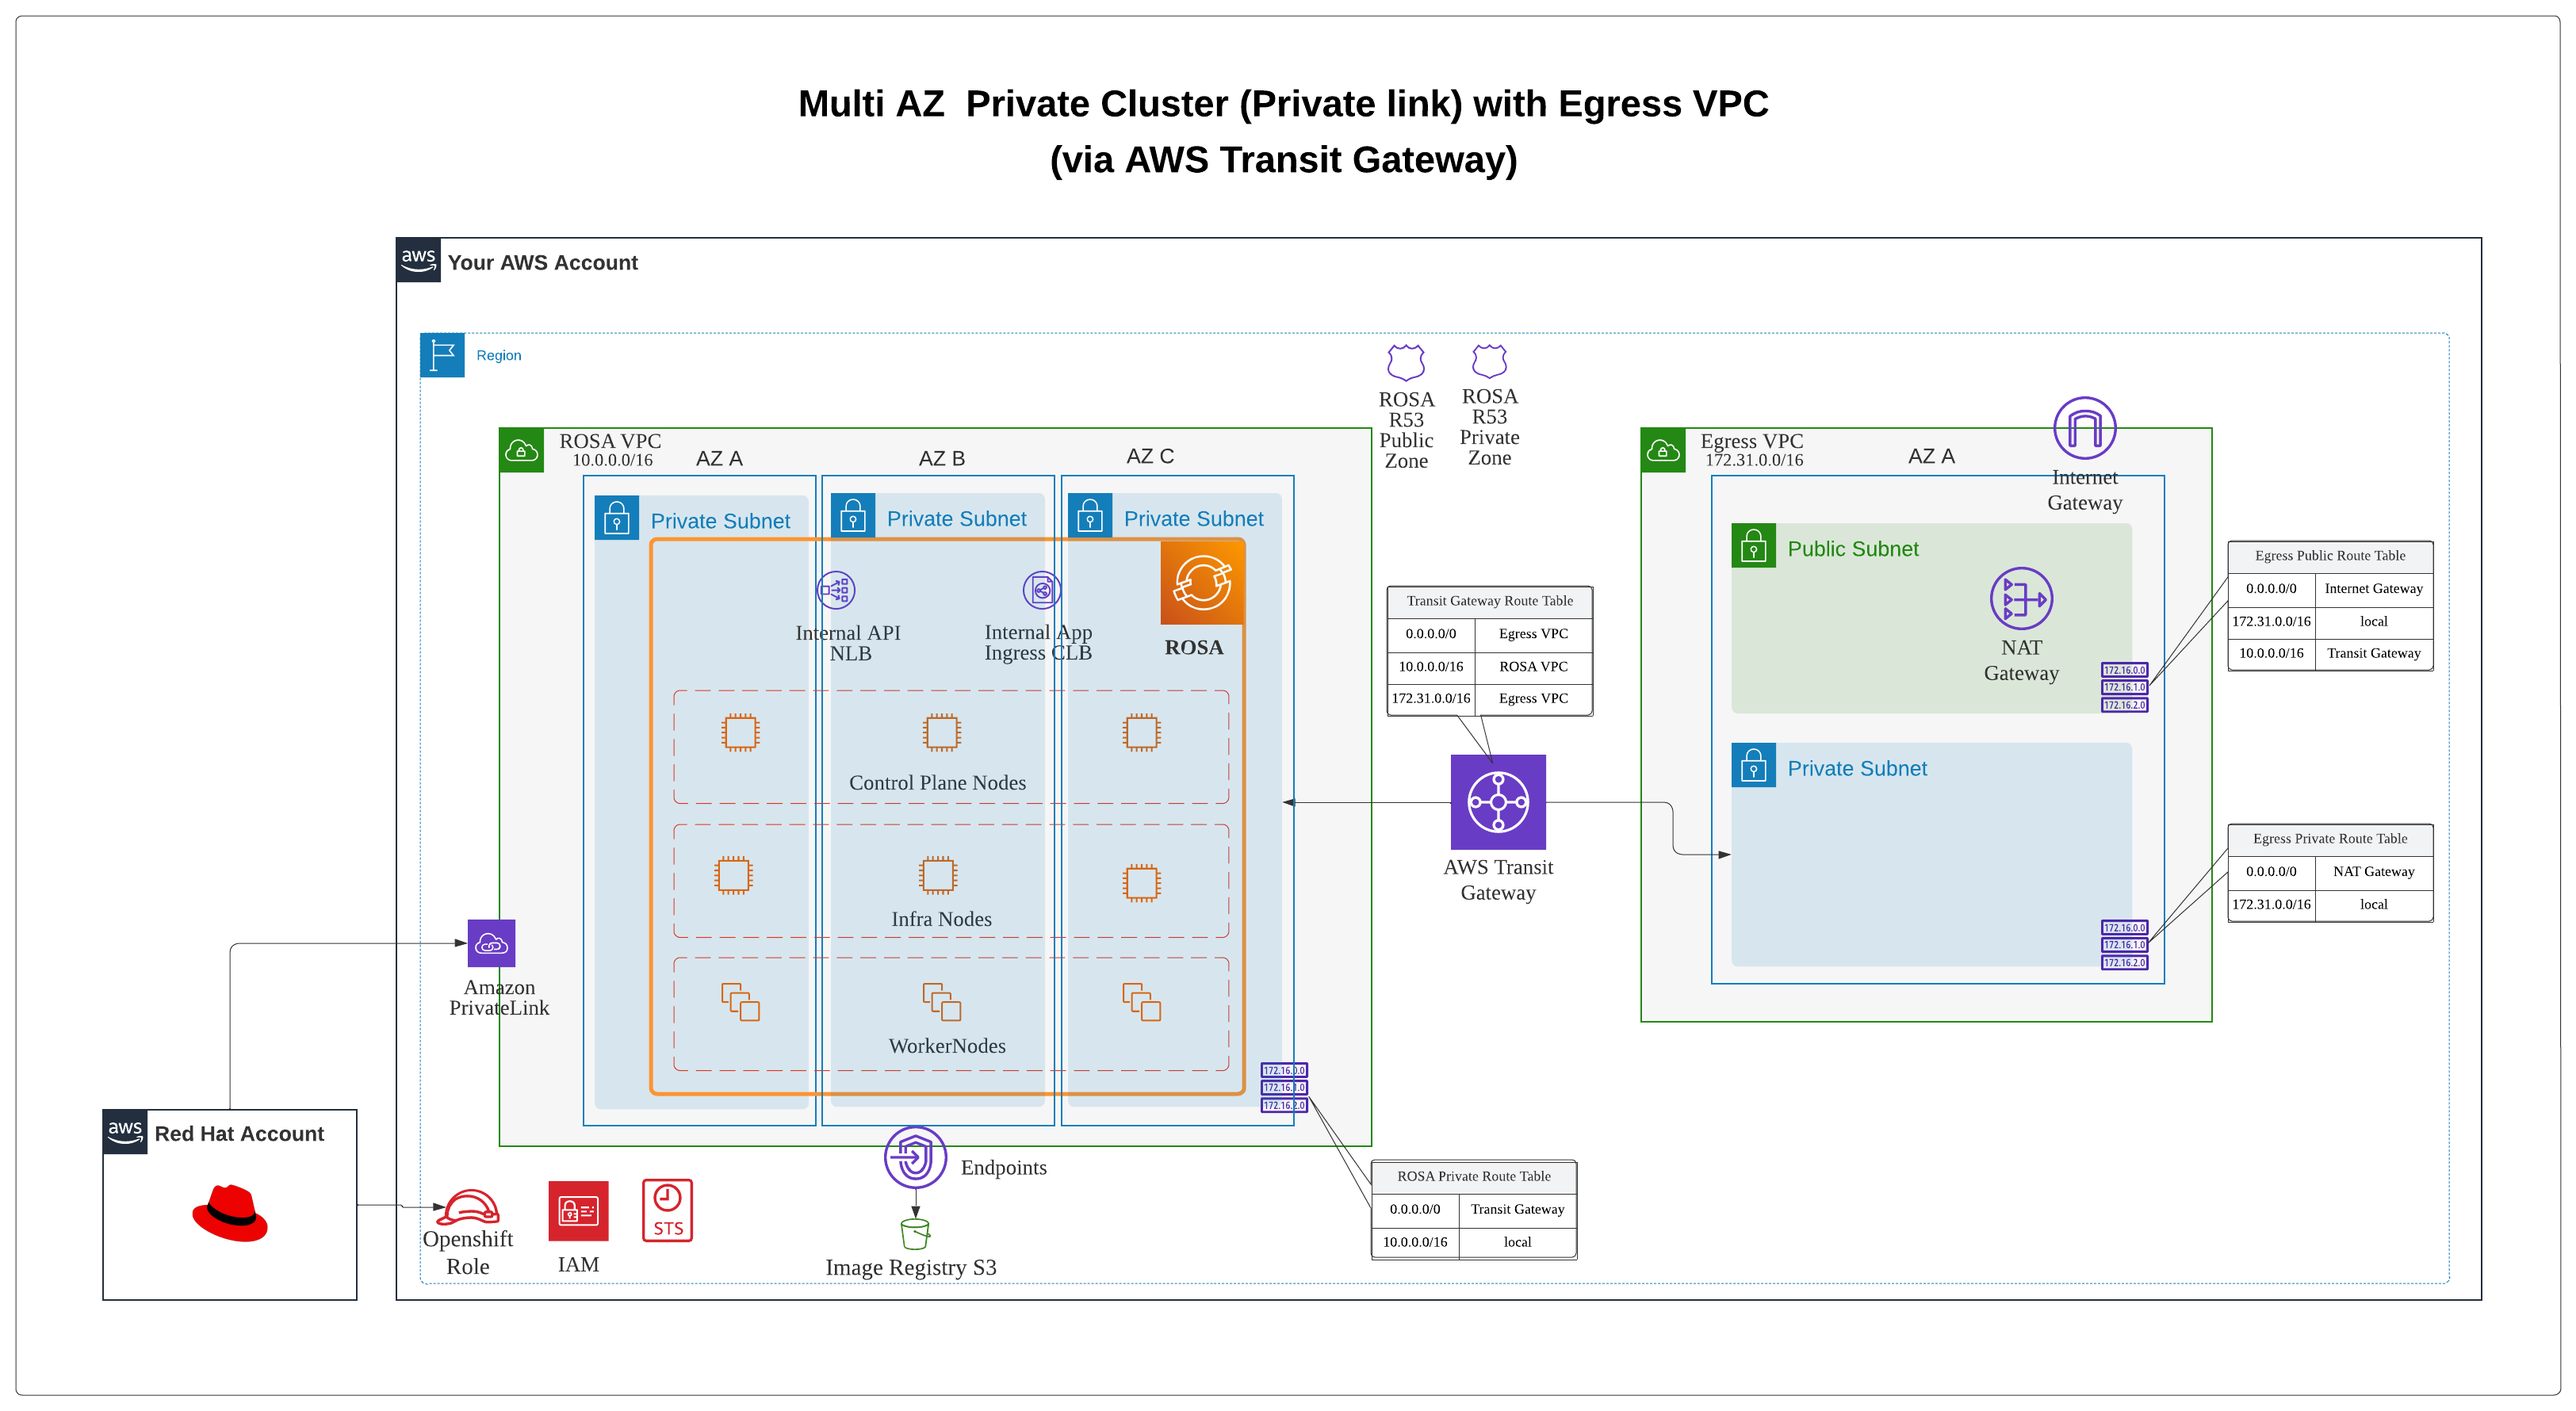
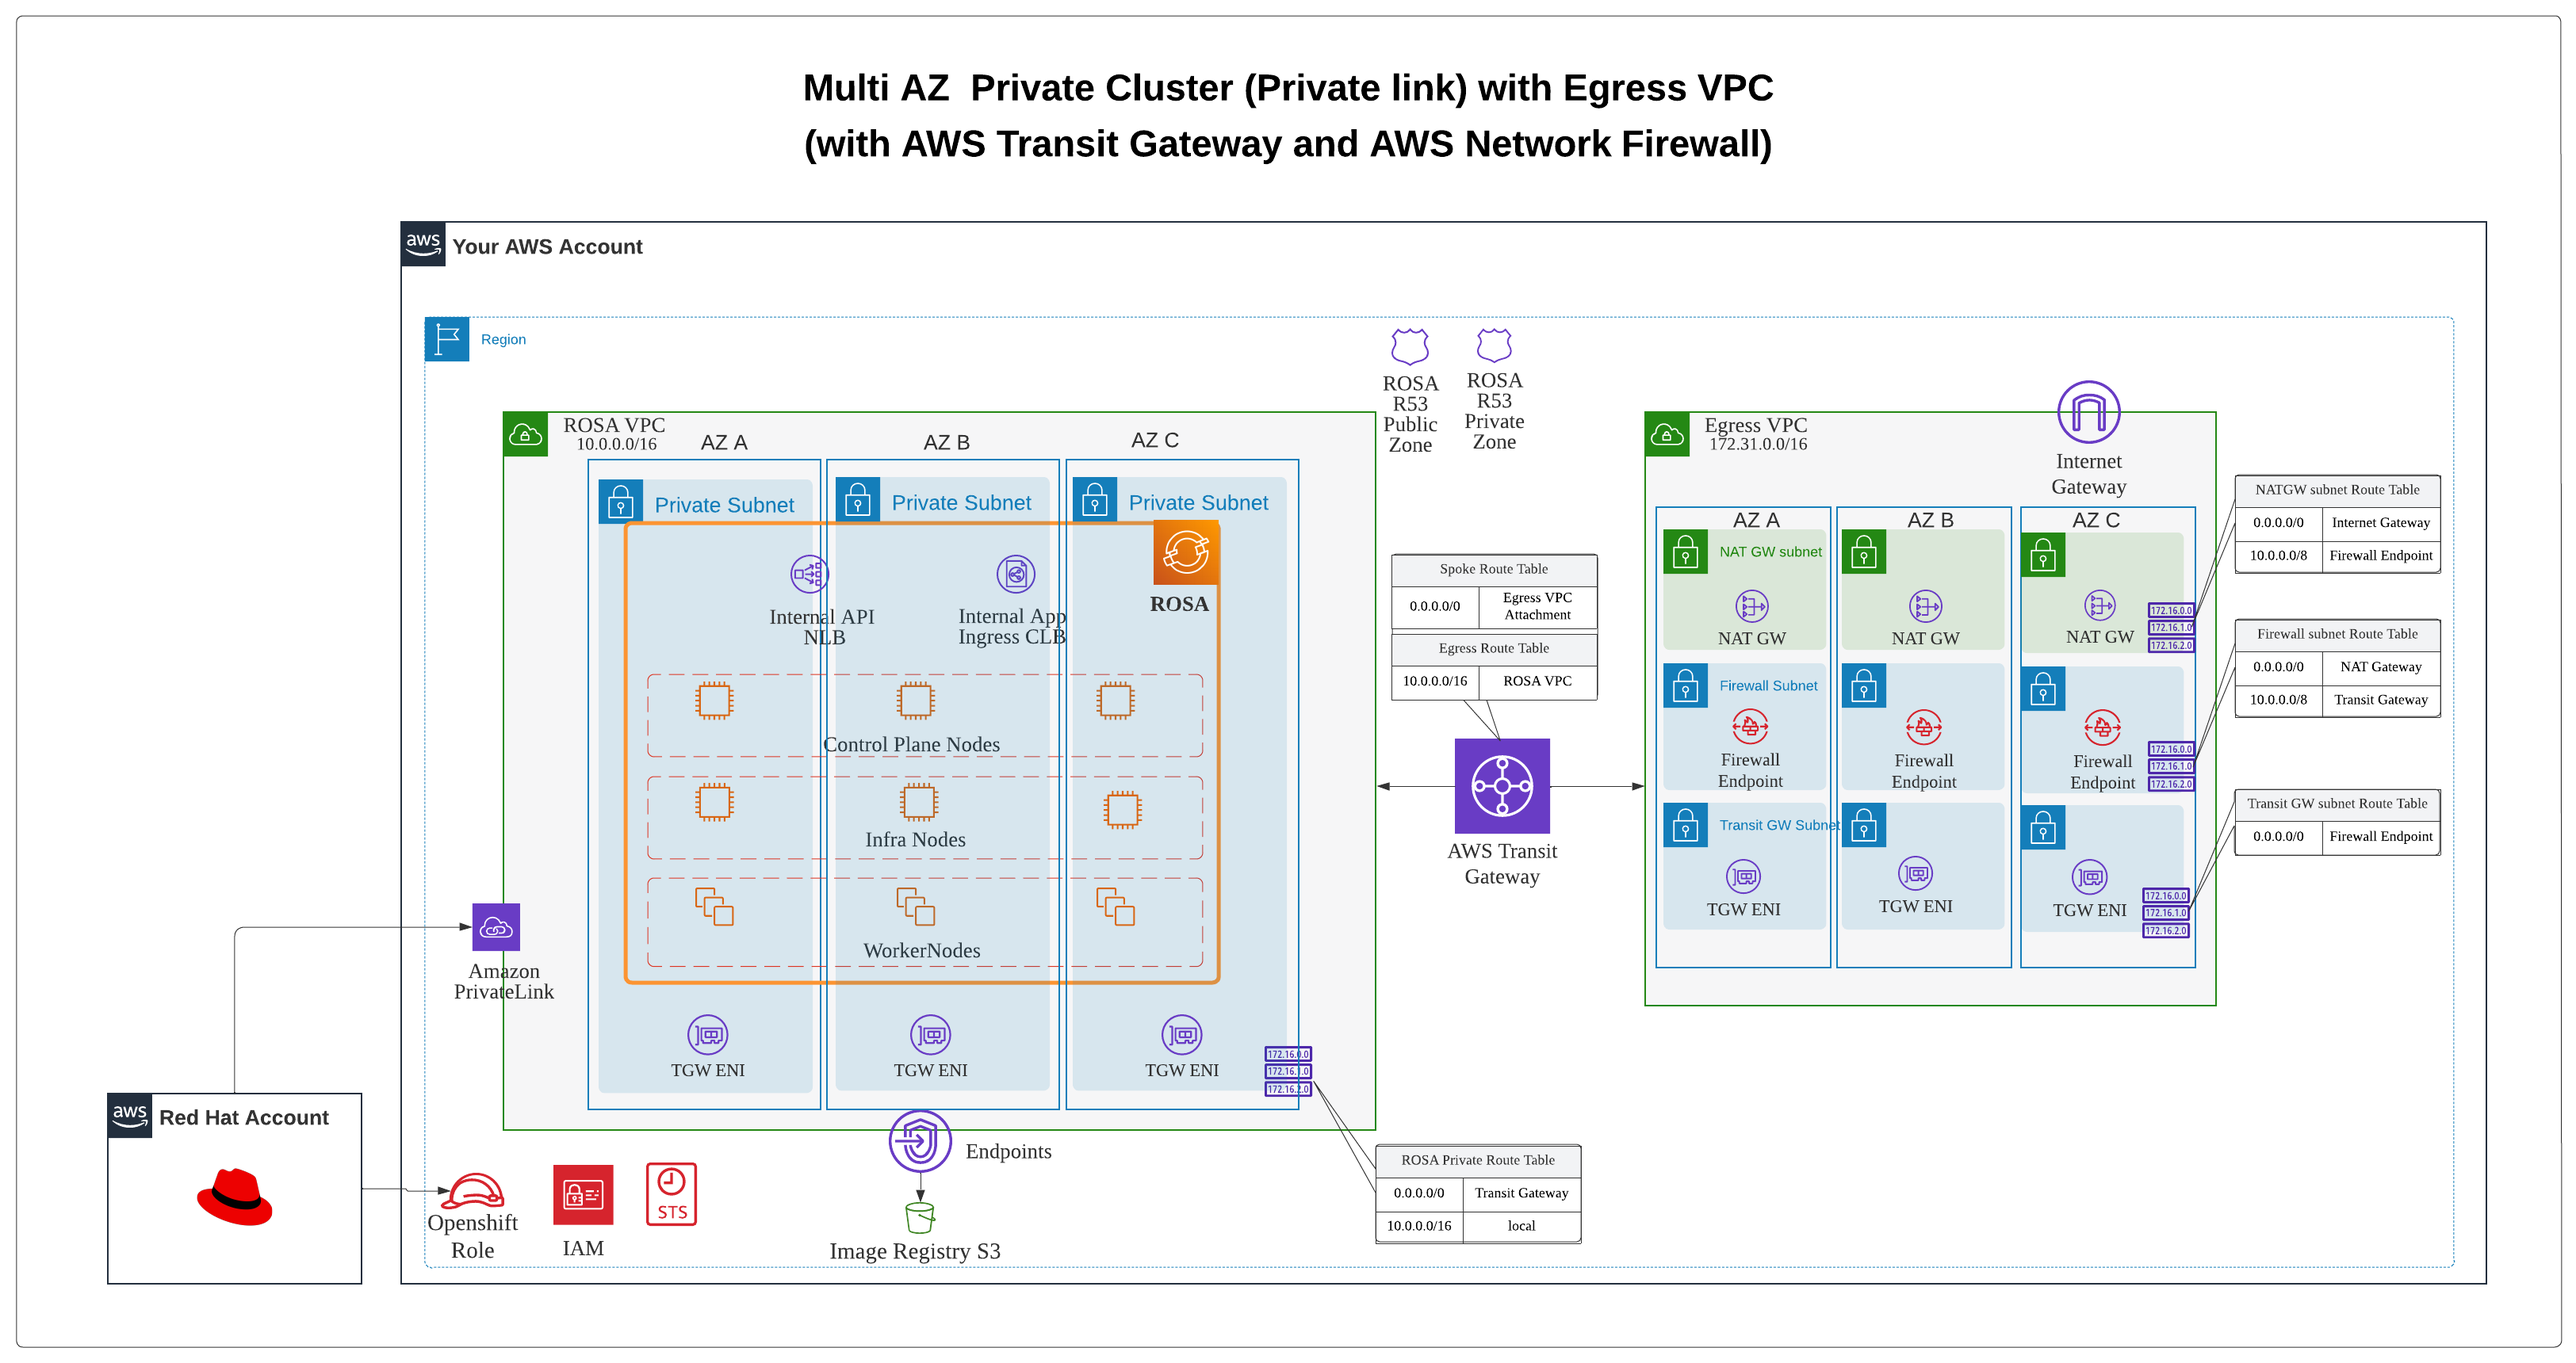
updated the user guide with the AWS Network Firewall

diff --git a/README.md b/README.md
@@ -271,16 +271,16 @@ cd ..
 
 ---
 
-3. [Option 3] Single AZ/Multi AZ Private Cluster (Private link) with Egress VPC (via AWS Transit Gateway)
+3. [Option 3] Single AZ/Multi AZ Private Cluster (Private link) with Egress VPC (with AWS Transit Gateway and AWS Network Firewall)
 
 <details style="margin-left: 20px">
 <summary>Details</summary>
 
-**To deploy** `Single AZ Private Cluster (Private link) with Egress VPC (via AWS Transit Gateway)`
+**To deploy** `Single AZ Private Cluster (Private link) with Egress VPC (with AWS Transit Gateway and AWS Network Firewall)`
 <details style="margin-left: 30px">
 <summary>Details</summary>
 
-![Single AZ Private Cluster (Private link) with Egress VPC (via AWS Transit Gateway)](documents/images/rosa-network-pattern-v1-single-az-private-tg.png)
+![Single AZ Private Cluster (Private link) with Egress VPC (with AWS Transit Gateway and AWS Network Firewall)](documents/images/rosa-network-pattern-v1-single-az-private-tg.png)
 
 Deploy the Egress VPC 
 
@@ -320,12 +320,12 @@ cd ..
 
 ---
 
-**To deploy** `Multi AZ Private Cluster (Private link) with Egress VPC (via AWS Transit Gateway)`
+**To deploy** `Multi AZ Private Cluster (Private link) with Egress VPC (with AWS Transit Gateway and AWS Network Firewall)`
 
 <details style="margin-left: 30px">
 <summary>Details</summary>
 
-![Multi AZ Private Cluster (Private link) with Egress VPC (via AWS Transit Gateway)](documents/images/rosa-network-pattern-v1-multi-az-private-tg.png)
+![Multi AZ Private Cluster (Private link) with Egress VPC (with AWS Transit Gateway and AWS Network Firewall)](documents/images/rosa-network-pattern-v1-multi-az-private-tg.png)
 
 Deploy the Egress VPC 
 
@@ -363,7 +363,7 @@ cd ..
 
 ---
 
-**To access the console** `Single AZ/Multi AZ Private Cluster (Private link) with Egress VPC (via AWS Transit Gateway)` 
+**To access the console** `Single AZ/Multi AZ Private Cluster (Private link) with Egress VPC (with AWS Transit Gateway and AWS Network Firewall)` 
 
 <details style="margin-left: 30px">
 <summary>Details</summary>
@@ -383,7 +383,7 @@ Note: Since the ROSA API and Console are only accessable internally, but setting
 
 ---
 
-**To delete** `Single AZ/Multi AZ Private Cluster (Private link) with Egress VPC (via AWS Transit Gateway)`
+**To delete** `Single AZ/Multi AZ Private Cluster (Private link) with Egress VPC (with AWS Transit Gateway and AWS Network Firewall)`
 
 <details style="margin-left: 30px">
 <summary>Details</summary>
@@ -428,7 +428,12 @@ cd ..
 
 If you deploy the cluster as as private cluster. In order, to access the ROSA console, you might need a workstation with a browser within your private network. 
 
-To facilate this, as part of the Terraform deployment if the `DEPLOY_WORKSTATION` is set to true in the `02-rosa-cluster/variable.auto.tfvars` file, this will deploy a Windows worksation which will be configured with the an RDP enabled user `rdp-user`. The password for this user is stored in the AWS secrets manager as name `<cluster-prefix>-<env>-<region-short>-workstation-windows-rdp-user-<random-number>`
+To facilate this, as part of the Terraform deployment if the `DEPLOY_WORKSTATION` is set to true in the `02-rosa-cluster/variable.auto.tfvars` file, this will deploy a Windows worksation 
+
+![Private Workstation](documents/images/private-workstation.png)
+
+
+Private Windows Workatstion will be configured with the an RDP enabled user `rdp-user`. The password for this user is stored in the AWS secrets manager as name `<cluster-prefix>-<env>-<region-short>-workstation-windows-rdp-user-<random-number>`
 
 Example,
 
@@ -446,6 +451,8 @@ You can then use the AWS Systems Manager Fleet Manager - remote desktop using th
 If you deploy the cluster as as private cluster. In order, to access the ROSA api or use oc cli, you might need a linux workstation within your private network. 
 
 To facilate this, as part of the Terraform deployment if the `DEPLOY_WORKSTATION` is set to true in the `02-rosa-cluster/variable.auto.tfvars` file, this will deploy a Linux worksation. 
+
+![Private Workstation](documents/images/private-workstation.png)
 
 You can use the AWS Systems Manager Fleet Manager to start a terminal connection.
 
@@ -515,6 +522,26 @@ resource "shell_script" "rosa_cluster" {
   interpreter = ["/bin/bash", "-c"]
 }
 ````
+</details>
+
+</details>
+
+### If i dont want to deploy AWS network firewall in the Egress VPC
+
+<details style="margin-left: 30px">
+<summary>Details</summary>
+
+If you do not require the AWS Network firewall to configure your own firewall device, you can ignore the deployment by setting the below value to `false` in the `01-ingress-network/variables.tf`
+
+```
+variable "DEPLOY_FIREWALL" {
+  type = bool
+  default = false
+}
+```
+![Egress VPC without AWS Network Firewall](documents/images/egress-vpc-without-fw.png)
+
+
 </details>
 
 </details>
